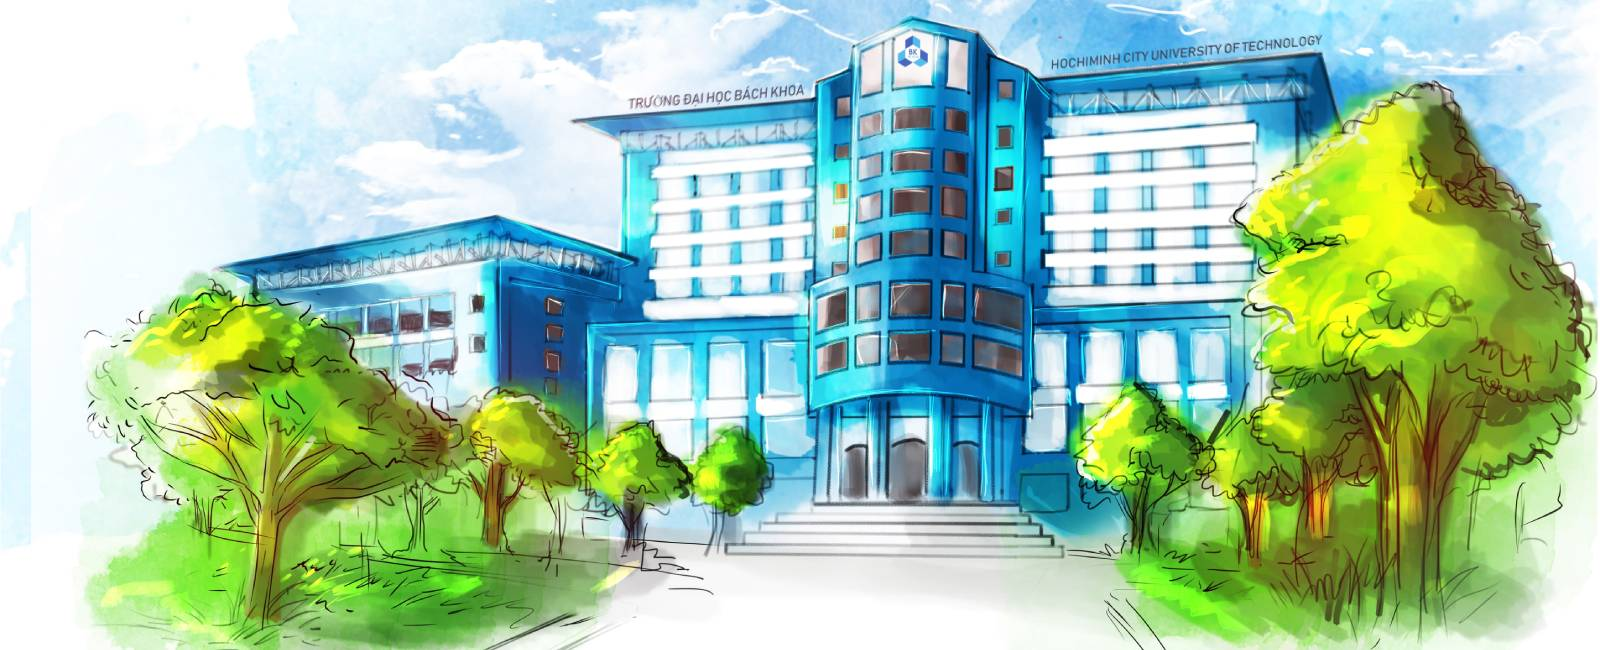
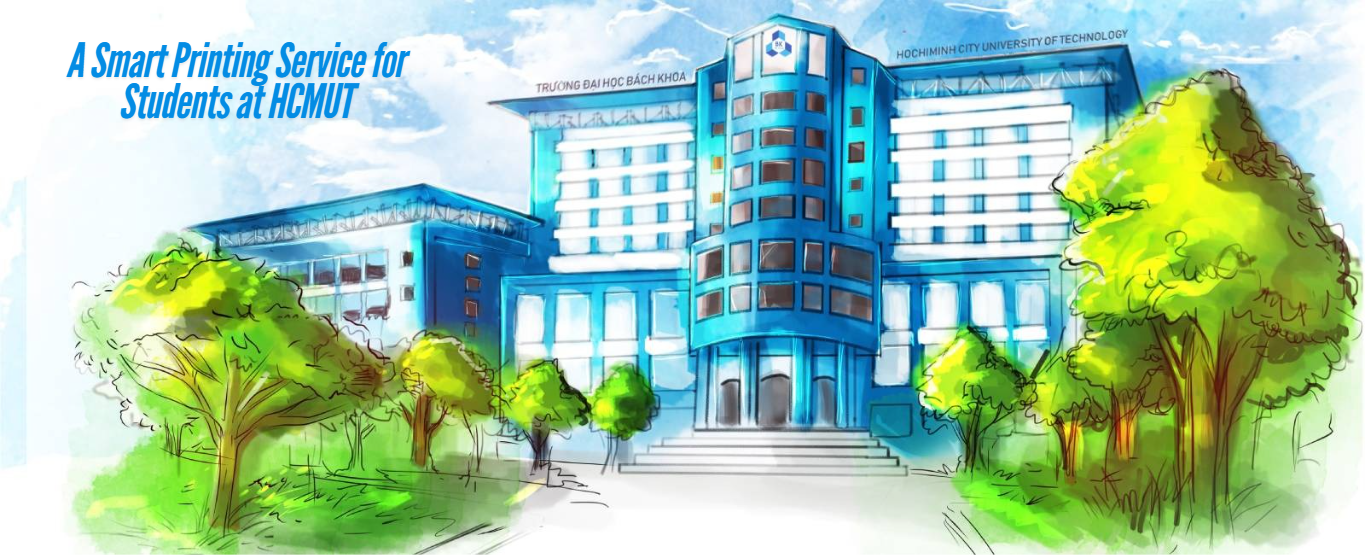
chỉnh tittle + footer

diff --git a/fronEnd/printerList/printerlist.html b/fronEnd/printerList/printerlist.html
@@ -289,11 +289,11 @@
     <footer>
       <div class="call">
         <div class="fa fa-phone"></div>
-        <p class="call_us">Liên hệ: CNPM-Hk241</p>
+        <p class="call_us">Liên hệ: Nhóm 6 CN01</p>
       </div>
       <div class="contact">
         <div class="fa fa-envelope"></div>
-        <p class="contact_us">E-mail:nhom4.cn01@hcmut.edu.vn</p>
+        <p class="contact_us">E-mail:nhom6.cn01@hcmut.edu.vn</p>
       </div>
     </footer>
     <script src="../static/js/script.js"></script>

diff --git a/fronEnd/print/config.html b/fronEnd/print/config.html
@@ -232,11 +232,11 @@
     <footer>
       <div class="call">
         <div class="fa fa-phone"></div>
-        <p class="call_us">Liên hệ: 0123456789</p>
+        <p class="call_us">Liên hệ: Nhóm 6 CN01</p>
       </div>
       <div class="contact">
         <div class="fa fa-envelope"></div>
-        <p class="contact_us">E-mail:ABC@gmail.com</p>
+        <p class="contact_us">E-mail:nhom6.cn01@hcmut.edu.vn</p>
       </div>
     </footer>
     <script src="../static/js/script.js"></script>

diff --git a/fronEnd/print/uploadfile.html b/fronEnd/print/uploadfile.html
@@ -175,11 +175,11 @@
     <footer>
       <div class="call">
         <div class="fa fa-phone"></div>
-        <p class="call_us">Liên hệ: 0123456789</p>
+        <p class="call_us">Liên hệ: Nhóm 6 CN01</p>
       </div>
       <div class="contact">
         <div class="fa fa-envelope"></div>
-        <p class="contact_us">E-mail:ABC@gmail.com</p>
+        <p class="contact_us">E-mail:nhom6.cn01@hcmut.edu.vn</p>
       </div>
     </footer>
     <script src="../static/js/script.js"></script>

diff --git a/fronEnd/homePage/index.html b/fronEnd/homePage/index.html
@@ -79,11 +79,11 @@
     <footer>
       <div class="call">
         <div class="fa fa-phone"></div>
-        <p class="call_us">Liên hệ: Nhóm 4 CN01</p>
+        <p class="call_us">Liên hệ: Nhóm 6 CN01</p>
       </div>
       <div class="contact">
         <div class="fa fa-envelope"></div>
-        <p class="contact_us">E-mail:nhom4.cn01@hcmut.edu.vn</p>
+        <p class="contact_us">E-mail:nhom6.cn01@hcmut.edu.vn</p>
       </div>
     </footer>
   </body>

diff --git a/fronEnd/login/index.html b/fronEnd/login/index.html
@@ -116,11 +116,11 @@
     <footer>
       <div class="call">
         <div class="fa fa-phone"></div>
-        <p class="call_us">Liên hệ: 0123456789</p>
+        <p class="call_us">Liên hệ: Nhóm 6 CN01</p>
       </div>
       <div class="contact">
         <div class="fa fa-envelope"></div>
-        <p class="contact_us">E-mail:ABC@gmail.com</p>
+        <p class="contact_us">E-mail:nhom6.cn01@hcmut.edu.vn</p>
       </div>
     </footer>
   </body>

diff --git a/fronEnd/history/history.html b/fronEnd/history/history.html
@@ -186,11 +186,11 @@
 	<footer>
 		<div class="call">
 			<div class="fa fa-phone"></div>
-			<p class="call_us">Liên hệ: 0123456789 </p>
+			<p class="call_us">Liên hệ: Nhóm 6 CN01</p>
 		</div>
 		<div class="contact">
 			<div class="fa fa-envelope"></div>
-			<p class="contact_us">E-mail:ABC@gmail.com</p>
+			<p class="contact_us">E-mail:nhom6.cn01@hcmut.edu.vn</p>
 		</div>
 	</footer>
 	<script src="../static/js/script.js"></script>

diff --git a/fronEnd/homePage/home2.html b/fronEnd/homePage/home2.html
@@ -194,11 +194,11 @@
 	<footer>
 		<div class="call">
 			<div class="fa fa-phone"></div>
-			<p class="call_us">Liên hệ: 0123456789 </p>
+			<p class="call_us">Liên hệ: Nhóm 6 CN01</p>
 		</div>
 		<div class="contact">
 			<div class="fa fa-envelope"></div>
-			<p class="contact_us">E-mail:ABC@gmail.com</p>
+			<p class="contact_us">E-mail:nhom6.cn01@hcmut.edu.vn</p>
 		</div>
 	</footer>
 	<script src="../static/js/script.js"></script>
